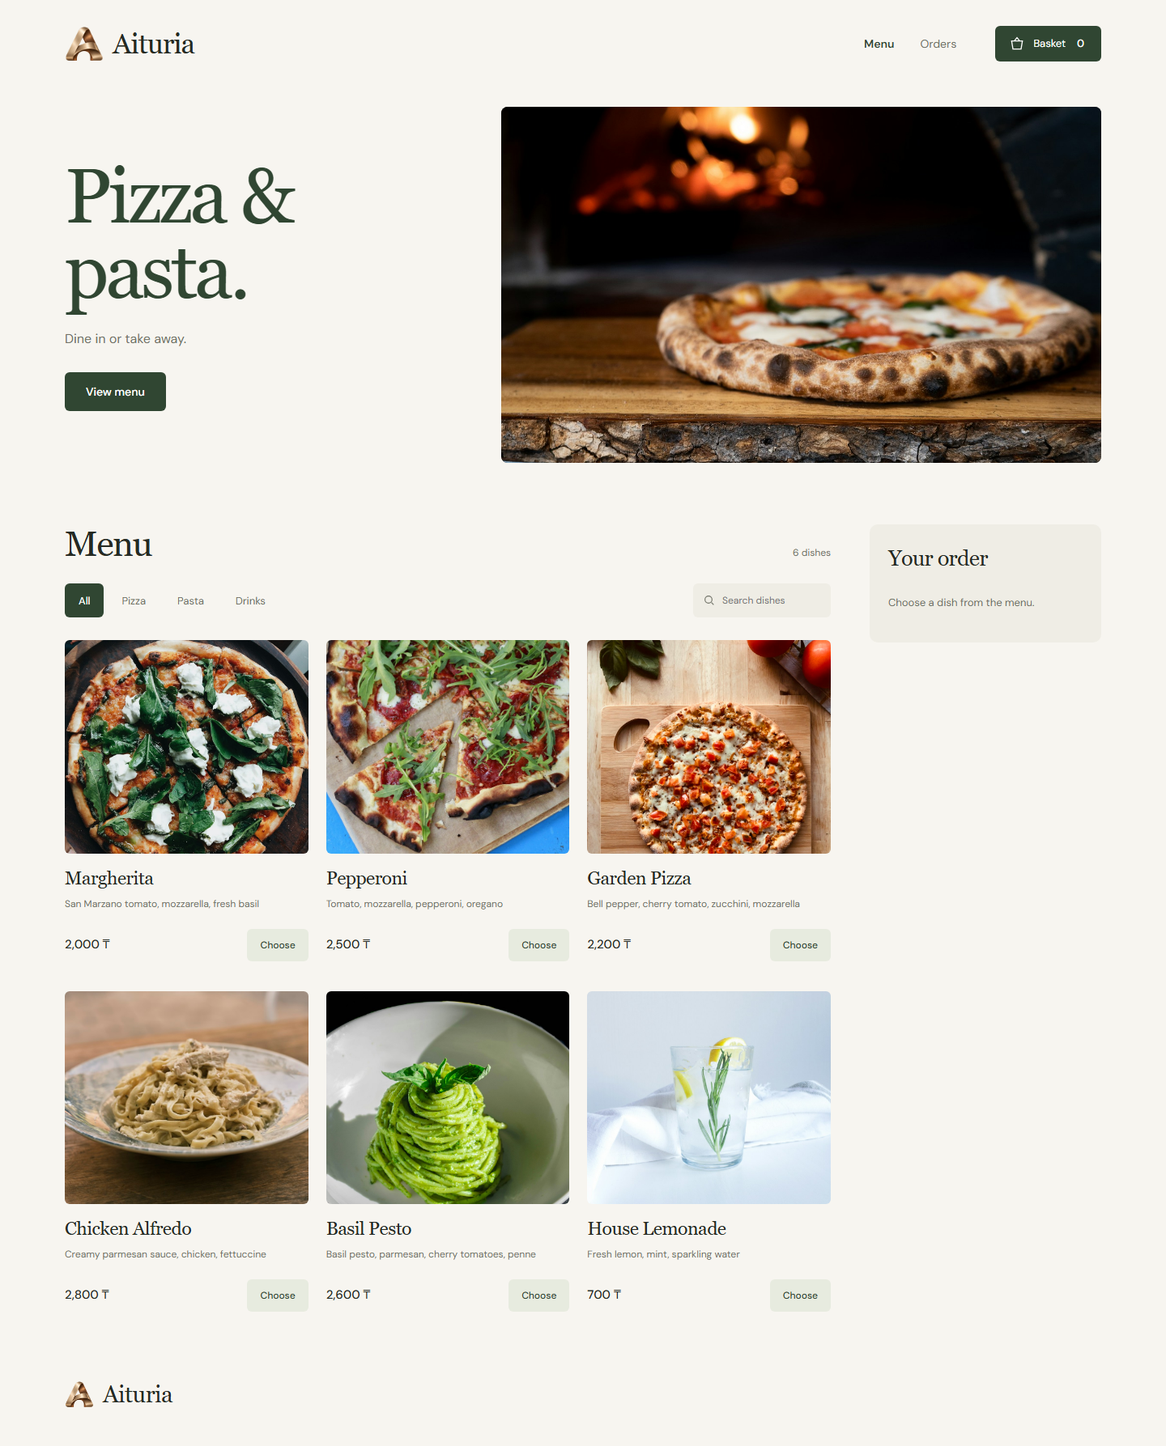
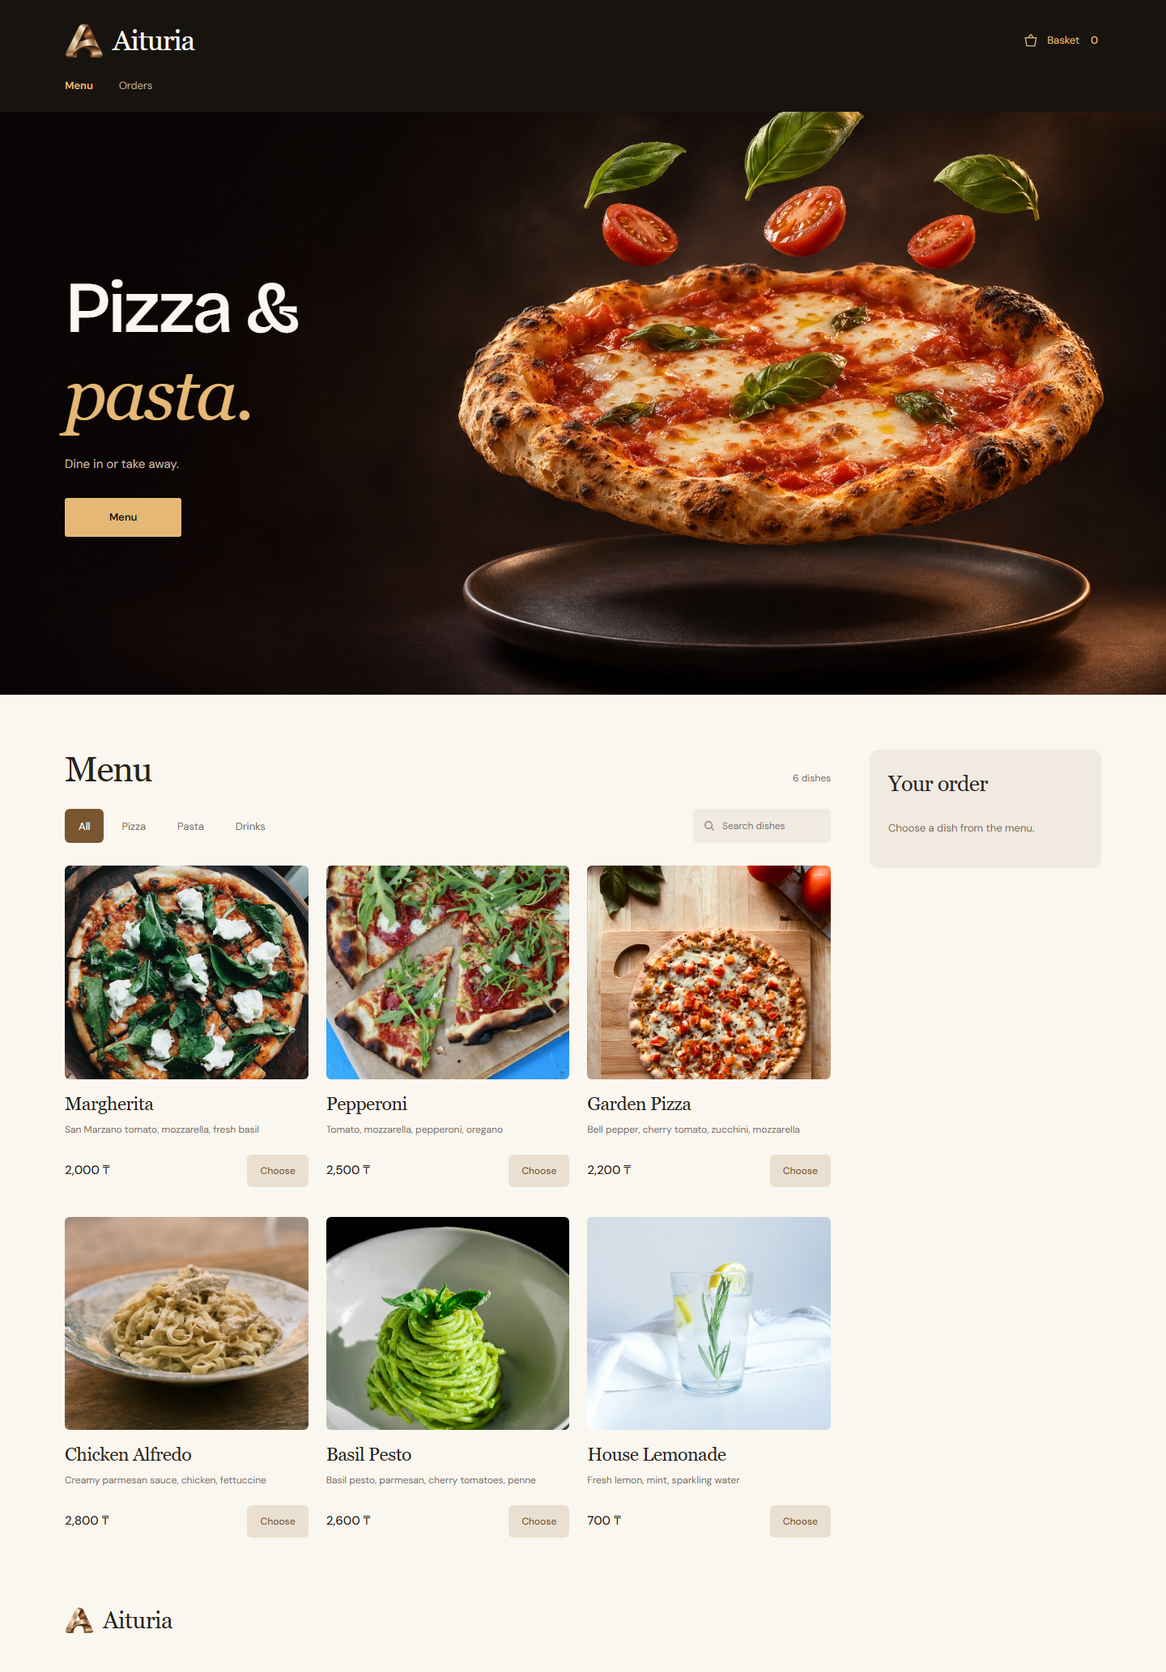
fix(ui): restore cinematic Aituria design with concise copy

diff --git a/src/main/resources/static/styles.css b/src/main/resources/static/styles.css
@@ -1,4 +1,4 @@
-:root{--paper:#f7f5f0;--surface:#efede5;--ink:#252a23;--muted:#707267;--green:#304632;--soft-green:#e7ebdf;--line:#d9dbd1;--sans:'DM Sans',Arial,sans-serif;--serif:Georgia,'Times New Roman',serif}
+:root{--paper:#faf7f0;--surface:#f0eae0;--ink:#29231c;--muted:#786c5d;--accent:#795630;--soft-accent:#eae0d1;--line:#d9cdbd;--night:#171410;--gold:#e6b875;--sans:'DM Sans',Arial,sans-serif;--display:'Bricolage Grotesque',Arial,sans-serif;--serif:Georgia,'Times New Roman',serif}
 *{box-sizing:border-box}
 html{scroll-behavior:smooth;scroll-padding-top:28px}
 body{margin:0;background:var(--paper);color:var(--ink);font:14px/1.5 var(--sans)}
@@ -11,45 +11,46 @@ button,input,select,textarea{font:inherit;color:inherit}
 button{cursor:pointer}
 button:disabled{opacity:.5;cursor:not-allowed}
 button,a{touch-action:manipulation;-webkit-tap-highlight-color:transparent}
-:is(button,a,input,select,textarea):focus-visible{outline:2px solid #69805a;outline-offset:4px}
+:is(button,a,input,select,textarea):focus-visible{outline:2px solid #a47741;outline-offset:4px}
 img{display:block;max-width:100%}
 svg{width:20px;height:20px;flex-shrink:0}
 fieldset{padding:0;margin:0;border:0}
 .sr-only{position:absolute;width:1px;height:1px;overflow:hidden;clip:rect(0,0,0,0);white-space:nowrap}
-.skip-link{position:fixed;top:-100px;left:16px;z-index:100;padding:12px 20px;background:var(--green);color:white}
+.skip-link{position:fixed;top:-100px;left:16px;z-index:100;padding:12px 20px;background:var(--accent);color:white}
 .skip-link:focus{top:12px}
-.page-width,.site-header{width:min(1280px,calc(100% - 112px));margin-inline:auto}
+.page-width{width:min(1280px,calc(100% - 160px));margin-inline:auto}
 
 /* Navigation */
-.site-header{display:flex;align-items:center;gap:48px;min-height:108px}
+.site-header{display:grid;grid-template-columns:1fr auto;align-items:center;column-gap:48px;row-gap:10px;padding:26px max(80px,calc((100% - 1280px)/2)) 10px;background:var(--night);color:var(--paper)}
 .brand,.footer-brand{display:inline-flex;align-items:center;gap:11px}
 .brand-mark{width:48px;height:48px;object-fit:contain;flex-shrink:0}
 .brand-name{font:35px/1 var(--serif);letter-spacing:-1px}
-.site-header nav{display:flex;align-items:center;gap:32px;margin-left:auto}
-.site-header nav a{display:flex;align-items:center;gap:7px;min-height:44px;color:var(--muted)}
-.site-header nav a.active,.site-header nav a:hover{color:var(--green)}
+.site-header nav{display:flex;grid-column:1/-1;grid-row:2;align-items:center;gap:32px}
+.site-header nav a{display:flex;align-items:center;gap:7px;min-height:44px;color:#b3a696;font-size:13px}
+.site-header nav a.active,.site-header nav a:hover{color:var(--gold)}
 .site-header nav a.active{font-weight:600}
-.nav-count{min-width:21px;padding:0 5px;border-radius:50%;background:var(--soft-green);text-align:center;font-size:11px}
-.basket-link{display:flex;align-items:center;gap:10px;min-height:44px;padding:10px 17px;background:var(--green);color:white;border-radius:6px;font-size:13px}
+.nav-count{min-width:21px;padding:0 5px;border-radius:50%;background:var(--soft-accent);color:var(--ink);text-align:center;font-size:11px}
+.basket-link{grid-column:2;grid-row:1;display:flex;align-items:center;gap:10px;min-height:44px;padding:10px 0 10px 17px;color:var(--gold);font-size:13px}
+.basket-link:hover{color:var(--paper)}
 .basket-link b{min-width:17px;font-weight:500;text-align:center}
 
-/* Photography and menu */
-.restaurant-hero{display:grid;grid-template-columns:.85fr 1.35fr;align-items:center;gap:72px;padding-block:24px 76px}
-.hero-content{padding-block:32px}
-.hero-content h1{color:var(--green);font:clamp(64px,6.6vw,98px)/.98 var(--serif);letter-spacing:-4px}
-.hero-description{margin-top:25px;color:var(--muted);font-size:16px}
-.hero-cta{display:inline-flex;align-items:center;justify-content:center;min-height:48px;margin-top:29px;padding:12px 26px;border-radius:6px;background:var(--green);color:white;font-weight:500}
-.hero-cta:hover,.basket-link:hover{background:#233724}
-.hero-photo{overflow:hidden;border-radius:8px;background:#302a20}
-.hero-photo img{width:100%;height:440px;object-fit:cover;object-position:58% center}
-.menu-layout{display:grid;grid-template-columns:minmax(0,1fr) 286px;align-items:start;gap:48px;padding-bottom:84px}
+/* Hero and menu */
+.restaurant-hero{position:relative;isolation:isolate;display:flex;align-items:center;min-height:720px;overflow:hidden;background:var(--night);color:var(--paper)}
+.hero-art{position:absolute;inset:0;z-index:-1;width:100%;height:100%;object-fit:cover;object-position:center}
+.hero-content{padding-block:72px}
+.hero-content h1{max-width:560px;font:500 clamp(70px,6.25vw,96px)/1.06 var(--display);letter-spacing:-3.5px}
+.hero-content h1 em{display:block;margin-top:10px;color:var(--gold);font-family:var(--serif);font-weight:400;letter-spacing:-3px}
+.hero-description{margin-top:28px;color:#c3b6a4;font-size:15px}
+.hero-cta{display:inline-flex;align-items:center;justify-content:center;min-width:144px;min-height:48px;margin-top:30px;padding:12px 28px;border-radius:3px;background:var(--gold);color:var(--night);font-size:13px;font-weight:600}
+.hero-cta:hover{background:#f0c990}
+.menu-layout{display:grid;grid-template-columns:minmax(0,1fr) 286px;align-items:start;gap:48px;padding-block:68px 84px}
 .section-top{display:flex;align-items:baseline;justify-content:space-between;gap:20px;margin-bottom:25px}
 .section-top h2{font:44px/1.1 var(--serif);letter-spacing:-1.5px}
 .menu-count{font-size:12px;color:var(--muted)}
 .menu-toolbar{display:flex;align-items:center;justify-content:space-between;flex-wrap:wrap;gap:16px;margin-bottom:28px}
 .category-tabs{display:flex;align-items:center;gap:5px}
 .category-tabs button{border:0;border-radius:6px;min-height:42px;padding:9px 17px;background:transparent;color:var(--muted);font-size:13px}
-.category-tabs button.active{background:var(--green);color:white}
+.category-tabs button.active{background:var(--accent);color:white}
 .category-tabs button:hover:not(.active){background:var(--surface);color:var(--ink)}
 .search-box{display:flex;align-items:center;gap:8px;width:170px;min-height:42px;padding:10px 12px;border-radius:6px;background:var(--surface);color:var(--muted)}
 .search-box svg{width:16px;height:16px}
@@ -63,8 +64,8 @@ fieldset{padding:0;margin:0;border:0}
 .dish-description{margin-bottom:20px;color:var(--muted);font-size:12px;line-height:1.65}
 .dish-bottom{display:flex;justify-content:space-between;align-items:center;gap:8px;margin-top:auto}
 .dish-price{font-size:15px;font-weight:500;white-space:nowrap}
-.dish-add{min-height:40px;padding:9px 16px;border:0;border-radius:6px;background:var(--soft-green);color:var(--green);font-size:12px;font-weight:500}
-.dish-add:hover{background:#d9e1cf}
+.dish-add{min-height:40px;padding:9px 16px;border:0;border-radius:6px;background:var(--soft-accent);color:var(--accent);font-size:12px;font-weight:500}
+.dish-add:hover{background:#deceb6}
 .menu-empty{grid-column:1/-1;padding:40px 0;color:var(--muted)}
 
 /* Basket and checkout */
@@ -82,18 +83,18 @@ fieldset{padding:0;margin:0;border:0}
 .cart-row-options{font-size:11px;color:var(--muted);margin-top:5px}
 .cart-row-bottom{display:flex;justify-content:space-between;align-items:center;flex-wrap:wrap;gap:8px;margin-top:12px}
 .cart-row-price{font-size:12px;white-space:nowrap}
-.quantity-stepper{display:inline-flex;align-items:center;overflow:hidden;height:34px;border-radius:5px;background:#e2e4d9}
+.quantity-stepper{display:inline-flex;align-items:center;overflow:hidden;height:34px;border-radius:5px;background:#e5ddcf}
 .quantity-stepper button{width:30px;height:100%;padding:0;border:0;background:transparent;font-size:17px}
 .quantity-stepper input,.quantity-value{width:25px;padding:0;border:0;background:transparent;appearance:textfield;text-align:center;font-size:12px}
 .quantity-stepper input::-webkit-inner-spin-button{appearance:none}
 .service-field{margin-top:28px}
 .service-field legend,.field-label,.customer-fields>label{font-size:12px;font-weight:500}
-.service-toggle{display:grid;grid-template-columns:1fr 1fr;padding:3px;margin:10px 0 18px;background:#e2e4d9;border-radius:6px}
+.service-toggle{display:grid;grid-template-columns:1fr 1fr;padding:3px;margin:10px 0 18px;background:#e5ddcf;border-radius:6px}
 .service-toggle label{position:relative;text-align:center;cursor:pointer}
 .service-toggle input{position:absolute;opacity:0;width:1px;height:1px}
 .service-toggle span{display:block;padding:10px 3px;border-radius:4px;font-size:11px}
 .service-toggle input:checked+span{background:var(--paper)}
-.service-toggle input:focus-visible+span{outline:2px solid var(--green)}
+.service-toggle input:focus-visible+span{outline:2px solid var(--accent)}
 .customer-fields{display:flex;gap:10px}
 .customer-fields>label{min-width:0;flex:1}
 .customer-fields input,.customer-fields select,.field-label select,.field-label textarea{display:block;width:100%;min-width:0;padding:10px;margin-top:7px;border:1px solid var(--line);border-radius:5px;background:#fffefa;font-size:13px}
@@ -104,8 +105,8 @@ fieldset{padding:0;margin:0;border:0}
 .cart-totals>div{display:flex;align-items:center;justify-content:space-between;gap:12px;margin-bottom:8px;font-size:12px;color:var(--muted)}
 .cart-totals .cart-total{margin:17px 0 0;color:var(--ink);font-size:14px}
 .cart-total strong{font-size:23px;font-weight:500;white-space:nowrap}
-.primary-button,.button{display:inline-flex;align-items:center;justify-content:space-between;gap:16px;min-height:46px;padding:12px 18px;border:0;border-radius:6px;background:var(--green);color:white;font-size:13px;font-weight:500}
-.primary-button:hover:not(:disabled),.button:hover{background:#233724}
+.primary-button,.button{display:inline-flex;align-items:center;justify-content:space-between;gap:16px;min-height:46px;padding:12px 18px;border:0;border-radius:6px;background:var(--accent);color:white;font-size:13px;font-weight:500}
+.primary-button:hover:not(:disabled),.button:hover{background:#614223}
 #place-order{width:100%;justify-content:center}
 .demo-note{margin-top:13px;color:var(--muted);text-align:center;font-size:10px}
 .site-footer{display:flex;align-items:center;padding-block:0 46px}
@@ -113,9 +114,9 @@ fieldset{padding:0;margin:0;border:0}
 .footer-brand img{width:36px;height:36px;object-fit:contain}
 
 /* Dish options */
-.customize-dialog{width:min(780px,calc(100% - 40px));max-height:90dvh;padding:0;border:0;border-radius:10px;overflow:auto;background:var(--paper);box-shadow:0 24px 80px #17201830}
+.customize-dialog{width:min(780px,calc(100% - 40px));max-height:90dvh;padding:0;border:0;border-radius:10px;overflow:auto;background:var(--paper);box-shadow:0 24px 80px #17141030}
 .customize-dialog[open]{display:grid;grid-template-columns:44% 56%}
-.customize-dialog::backdrop{background:#151b17a8}
+.customize-dialog::backdrop{background:#171410b3}
 .close-dialog{position:absolute;right:13px;top:13px;z-index:3;width:36px;height:36px;padding:0;border:0;border-radius:50%;background:var(--paper);font-size:25px;line-height:1}
 .dialog-visual{background:var(--surface)}
 .dialog-visual img{width:100%;height:100%;min-height:430px;object-fit:cover}
@@ -127,8 +128,8 @@ fieldset{padding:0;margin:0;border:0}
 .toppings-field legend{width:100%;margin-bottom:12px;font-size:14px;font-weight:500}
 .toppings-field legend span{float:right;padding-top:2px;font-size:11px;font-weight:400;color:var(--muted)}
 .topping-option{display:flex;align-items:center;gap:11px;margin-top:8px;padding:12px;border-radius:6px;background:var(--surface);cursor:pointer}
-.topping-option:has(input:checked){background:#e1e9d9}
-.topping-option input{width:16px;height:16px;margin:0;accent-color:var(--green)}
+.topping-option:has(input:checked){background:var(--soft-accent)}
+.topping-option input{width:16px;height:16px;margin:0;accent-color:var(--accent)}
 .topping-name{flex:1;font-size:13px}
 .topping-price,.topping-hint{font-size:12px;color:var(--muted)}
 .dialog-quantity-row{display:flex;align-items:center;justify-content:space-between;margin-block:22px;font-size:13px}
@@ -142,7 +143,7 @@ fieldset{padding:0;margin:0;border:0}
 .error-box{padding:13px;margin-block:12px;border-radius:6px;background:#f5e4dd;color:#8d3226;font-size:13px}
 .retry-button{display:block;margin-top:9px;padding:6px 12px;border:1px solid currentColor;border-radius:4px;background:transparent;font-size:12px}
 .loading-state{display:flex;align-items:center;gap:12px;grid-column:1/-1;padding:60px 0;color:var(--muted)}
-.loading-ring{width:18px;height:18px;border:2px solid var(--line);border-top-color:var(--green);border-radius:50%;animation:spin 1s linear infinite}
+.loading-ring{width:18px;height:18px;border:2px solid var(--line);border-top-color:var(--accent);border-radius:50%;animation:spin 1s linear infinite}
 @keyframes spin{to{transform:rotate(360deg)}}
 
 /* Order history */
@@ -160,33 +161,33 @@ fieldset{padding:0;margin:0;border:0}
 .order-meta{margin-top:10px;font-size:12px;color:var(--muted)}
 .order-progress{display:grid;grid-template-columns:repeat(4,1fr);gap:6px;margin:28px 0 34px;padding:0;list-style:none}
 .order-progress-step{padding:12px 8px;border-radius:5px;background:var(--surface);color:var(--muted);font-size:12px;text-align:center}
-.order-progress-step.reached{background:var(--soft-green);color:var(--green)}
-.order-progress-step.current{background:var(--green);color:white}
+.order-progress-step.reached{background:var(--soft-accent);color:var(--accent)}
+.order-progress-step.current{background:var(--accent);color:white}
 .order-detail-grid{display:grid;grid-template-columns:1fr 1fr;gap:48px}
 .order-section-title{margin-bottom:17px;font-size:16px;font-weight:500}
 .order-line{display:flex;justify-content:space-between;gap:20px;padding-block:9px;font-size:13px}
 .order-line strong{font-weight:500;white-space:nowrap}
-.order-discount{color:var(--green)}
+.order-discount{color:var(--accent)}
 .order-summary{padding-block:19px}
 .order-summary>div{display:flex;justify-content:space-between;gap:20px;font-size:16px}
 .order-summary strong{font-size:22px;font-weight:500}
 .order-note{font-size:12px;color:var(--muted)}
 .event-feed{max-height:260px;overflow:auto;padding:0;margin:0;list-style:none}
 .event-item{padding-bottom:19px}
-.event-audience{font-size:10px;font-weight:500;color:var(--green)}
+.event-audience{font-size:10px;font-weight:500;color:var(--accent)}
 .event-item p{margin-block:4px;color:var(--muted);font-size:12px;line-height:1.6}
 .event-item time{font-size:10px;color:var(--muted)}
 .order-actions{display:flex;justify-content:space-between;align-items:center;gap:20px;margin-top:30px}
 .receipt-links{display:flex;flex-wrap:wrap;gap:12px 20px}
-.receipt-link{color:var(--green);text-decoration:underline;text-underline-offset:4px;font-size:12px}
+.receipt-link{color:var(--accent);text-decoration:underline;text-underline-offset:4px;font-size:12px}
 .advance-order{font-size:12px;white-space:nowrap}
 
 /* Tablet */
 @media(max-width:1150px){
-.page-width,.site-header{width:calc(100% - 64px)}
-.restaurant-hero{gap:40px;grid-template-columns:.85fr 1.15fr}
+.page-width{width:calc(100% - 80px)}
+.site-header{padding-inline:40px}
+.restaurant-hero{min-height:620px}
 .hero-content h1{font-size:76px}
-.hero-photo img{height:385px}
 .menu-layout{grid-template-columns:minmax(0,1fr) 270px;gap:30px}
 .menu-grid{grid-template-columns:repeat(2,minmax(0,1fr))}
 .search-box{width:100%}
@@ -195,23 +196,23 @@ fieldset{padding:0;margin:0;border:0}
 /* Phone */
 @media(max-width:760px){
 html{scroll-padding-top:20px}
-.page-width,.site-header{width:calc(100% - 40px)}
-.site-header{display:grid;grid-template-columns:1fr auto;column-gap:16px;row-gap:3px;padding-top:16px;min-height:110px}
+.page-width{width:calc(100% - 44px)}
+.site-header{column-gap:16px;row-gap:10px;padding:18px 22px 0;min-height:110px}
 .brand{gap:9px}
 .brand-mark{width:38px;height:38px}
 .brand-name{font-size:31px}
-.basket-link{grid-column:2;grid-row:1;padding:10px 13px;gap:8px}
+.basket-link{padding:10px 0 10px 13px;gap:8px}
 .basket-link>span{display:none}
-.site-header nav{grid-column:1/-1;grid-row:2;gap:26px;margin-left:0}
+.site-header nav{gap:26px}
 .site-header nav a{font-size:13px}
-.restaurant-hero{grid-template-columns:1fr;gap:25px;padding-block:16px 48px}
-.hero-content{padding:0}
-.hero-content h1{font-size:57px;line-height:1.02;letter-spacing:-2.5px}
-.hero-content h1 br{display:none}
-.hero-description{margin-top:15px;font-size:14px}
-.hero-cta{min-height:44px;margin-top:21px;padding:11px 23px;font-size:13px}
-.hero-photo img{height:auto;aspect-ratio:1.45;object-position:60% center}
-.menu-layout{display:block;padding-bottom:52px}
+.restaurant-hero{align-items:flex-start;min-height:710px}
+.hero-content{padding-block:47px 0}
+.hero-content h1{font-size:56px;line-height:1.06;letter-spacing:-2px}
+.hero-content h1 em{margin-top:6px;letter-spacing:-1.5px}
+.hero-description{margin-top:24px;font-size:13px}
+.hero-cta{min-width:128px;min-height:44px;margin-top:24px;padding:11px 23px;font-size:12px}
+.hero-art{inset:auto auto 0 50%;width:1020px;max-width:none;height:574px;transform:translateX(-50%);object-fit:contain;mask-image:linear-gradient(to bottom,transparent,#000 23%,#000 90%,transparent)}
+.menu-layout{display:block;padding-block:40px 52px}
 .section-top{margin-bottom:21px}
 .section-top h2{font-size:36px}
 .menu-count{font-size:11px}
@@ -259,8 +260,10 @@ html{scroll-padding-top:20px}
 }
 
 @media(max-width:360px){
-.page-width,.site-header{width:calc(100% - 32px)}
+.page-width{width:calc(100% - 32px)}
+.site-header{padding-inline:16px}
 .hero-content h1{font-size:50px}
+.hero-art{width:940px;height:529px}
 .category-tabs button{padding-inline:12px}
 .menu-grid{gap:27px 12px}
 .dish-title{font-size:19px}

diff --git a/src/main/resources/static/index.html b/src/main/resources/static/index.html
@@ -3,7 +3,7 @@
 <head>
   <meta charset="utf-8">
   <meta name="viewport" content="width=device-width, initial-scale=1">
-  <meta name="theme-color" content="#f7f5f0">
+  <meta name="theme-color" content="#171410">
   <meta name="description" content="Aituria. Pizza, pasta and drinks. Dine in or take away.">
   <title>Aituria — Pizza & pasta</title>
   <link rel="icon" href="/images/favicon.png" type="image/png" sizes="64x64">
@@ -21,13 +21,13 @@
   </header>
   <main id="main">
     <div id="view-menu">
-      <section class="restaurant-hero page-width" aria-labelledby="hero-title">
-        <div class="hero-content">
-          <h1 id="hero-title">Pizza &<br> pasta.</h1>
+      <section class="restaurant-hero" aria-labelledby="hero-title">
+        <img class="hero-art" src="/images/hero-cinematic.jpg" alt="Margherita pizza with basil and tomatoes above a dark ceramic plate" width="1920" height="1088" fetchpriority="high" decoding="async">
+        <div class="hero-content page-width">
+          <h1 id="hero-title">Pizza &<em>pasta.</em></h1>
           <p class="hero-description">Dine in or take away.</p>
-          <a class="hero-cta" href="#menu-list">View menu</a>
+          <a class="hero-cta" href="#menu-list">Menu</a>
         </div>
-        <div class="hero-photo"><img src="/images/story.jpg" alt="Freshly baked pizza beside a wood-fired oven" width="1400" height="933" fetchpriority="high" decoding="async"></div>
       </section>
       <section class="menu-layout page-width" id="menu-list" aria-labelledby="menu-heading">
         <div class="menu-main">

diff --git a/docs/MUKHAMMAD.md b/docs/MUKHAMMAD.md
@@ -17,6 +17,8 @@ the participants in the application flow. The implementation branch is
 These commits were published under `Vertex-blip` on
 `feature/mukhammad-3d-interface`. [PR #1](https://github.com/arynttai/sdp_final/pull/1)
 contains the integration; the GitHub Actions run for `0e48a73` passed.
+The interface cleanup is tracked in [PR #2](https://github.com/arynttai/sdp_final/pull/2)
+on `feature/mukhammad-refine-interface`, preserving the original dark hero artwork.
 
 ## Decorator
 
@@ -159,20 +161,22 @@ and adds a complete six-pattern walkthrough without starting a server.
 ## Design implementation
 
 `static/index.html`, `styles.css`, and `app.js` implement a restaurant interface
-in warm ivory and dark green, using the bronze Aituria identity and locally served
-DM Sans and system Georgia fonts. A real photograph of pizza by an oven introduces
-the menu. Food photographs, clear prices, categories, and a persistent basket support ordering.
+with a dark espresso header and hero, bronze accents, and a warm ivory menu.
+The original floating-pizza artwork, supplied again by the user, fills the hero.
+The bronze Aituria identity uses locally served Bricolage Grotesque and DM Sans
+with system Georgia. Food photographs, clear prices, categories, and a persistent
+basket support ordering.
 The basket and order views use server-provided options, prices, totals, status
 sequence, and notifications.
 
-The earlier generated floating-pizza hero and its animation script were removed.
-Repeated restaurant captions, slogans, ornamental rules, and duplicate status
-labels were also removed. Functional form labels, price information, order
-progress, and the demo-only notice remain. The stylesheet defines one coherent
-responsive layout rather than accumulating overrides for previous designs.
+The hero uses the original artwork as a static image with a responsive crop.
+Repeated restaurant captions, slogans, ornamental rules, motion controls, and
+duplicate status labels were removed. Functional form labels, price information,
+order progress, and the demo-only notice remain. The stylesheet defines one
+responsive layout.
 
 Menu photography is illustrative; its source URLs and Unsplash license reference,
-along with the generated logo's provenance, are recorded in
+along with the generated hero and logo artwork's provenance, are recorded in
 [`images/CREDITS.txt`](../src/main/resources/static/images/CREDITS.txt).
 Font families originate from Google Fonts and are served as local font files,
 with their upstream SIL Open Font Licenses included for

diff --git a/README.md b/README.md
@@ -24,11 +24,12 @@ and `--demo` on pushes and pull requests.
 
 ## Website
 
-Aituria uses warm ivory, dark green, locally served DM Sans, and system Georgia
-typography. A real food photograph accompanies a short introduction. The header,
-menu, basket, and order history use spacing and typography instead of decorative
-dividers, repeated slogans, or animated effects. The bronze Aituria emblem appears
-beside the name and in the browser icons.
+Aituria uses a dark espresso header and hero, bronze accents, and a warm ivory
+menu. The original floating-pizza artwork fills the hero, with a short heading
+and a direct menu link. Locally served Bricolage Grotesque and DM Sans accompany
+system Georgia typography. The bronze Aituria emblem appears beside the name
+and in the browser icons. Decorative dividers, repeated slogans, and motion
+controls are omitted.
 
 The menu uses real Unsplash food photographs, clear prices, straightforward
 category navigation, and a persistent basket. Photography, logo artwork,
